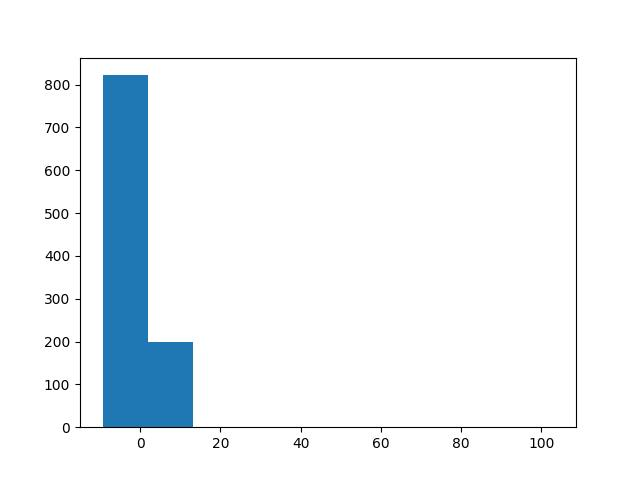
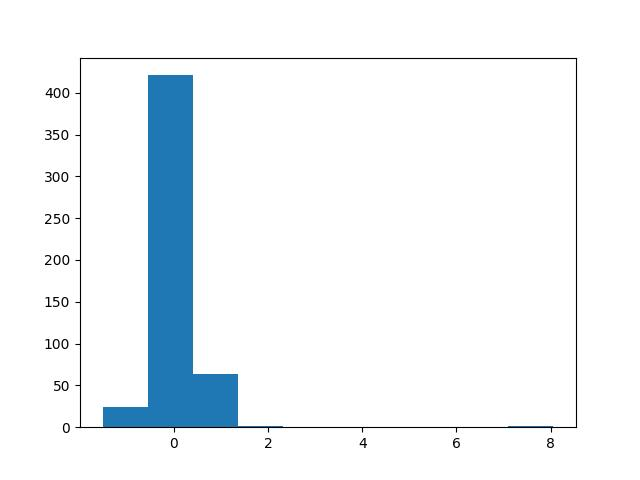
weighting! fantastic!

diff --git a/internvl2_patches.py b/internvl2_patches.py
@@ -21,6 +21,9 @@ from conversation import get_conv_template
 from modeling_intern_vit import InternVisionModel, has_flash_attn
 from modeling_phi3 import Phi3ForCausalLM
 
+from transformers import CLIPProcessor, CLIPModel
+
+
 logger = logging.get_logger(__name__)
 
 
@@ -59,7 +62,14 @@ class InternVLChatModel(PreTrainedModel):
         if vision_model is not None:
             self.vision_model = vision_model
         else:
-            self.vision_model = InternVisionModel(config.vision_config)
+            self.vision_model = CLIPModel.from_pretrained(
+                "openai/clip-vit-base-patch16",
+                # attn_implementation="flash_attention_2",
+                # device_map=device,
+                # torch_dtype=torch_dtype,
+            )
+            # self.processor = CLIPProcessor.from_pretrained("openai/clip-vit-base-patch32")
+
         if language_model is not None:
             self.language_model = language_model
         else:
@@ -70,7 +80,7 @@ class InternVLChatModel(PreTrainedModel):
             else:
                 raise NotImplementedError(f'{config.llm_config.architectures[0]} is not implemented.')
 
-        vit_hidden_size = config.vision_config.hidden_size
+        vit_hidden_size = 512# config.vision_config.hidden_size
         llm_hidden_size = config.llm_config.hidden_size
 
         self.mlp1 = nn.Sequential(
@@ -181,24 +191,11 @@ class InternVLChatModel(PreTrainedModel):
         return x
 
     def extract_feature(self, pixel_values):
-        # if self.select_layer == -1:
-        #     vit_embeds = self.vision_model(
-        #         pixel_values=pixel_values,
-        #         output_hidden_states=False,
-        #         return_dict=True).last_hidden_state
-        # else:
-        #     vit_embeds = self.vision_model(
-        #         pixel_values=pixel_values,
-        #         output_hidden_states=True,
-        #         return_dict=True).hidden_states[self.select_layer]
-        vit_embeds = self.vision_model(
-                pixel_values=pixel_values,
-                output_hidden_states=False,
-                return_dict=True).pooler_output
+        # inputs = self.processor(images=pixel_values, 
+        #                         return_tensors="pt").to(self.vision_model.device, self.vision_model.dtype)
+        vit_embeds = self.vision_model.get_image_features(pixel_values,
+                return_dict=True)
 
-        # h = w = int(vit_embeds.shape[1] ** 0.5)
-        # vit_embeds = vit_embeds.reshape(vit_embeds.shape[0], h, w, -1)
-        # vit_embeds = self.pixel_shuffle(vit_embeds, scale_factor=self.downsample_ratio)
         vit_embeds = vit_embeds.reshape(pixel_values.shape[0], -1, vit_embeds.shape[-1])
         return vit_embeds
 
@@ -255,12 +252,6 @@ class InternVLChatModel(PreTrainedModel):
              num_patches_list=None, IMG_START_TOKEN='<img>', IMG_END_TOKEN='</img>', IMG_CONTEXT_TOKEN='<IMG_CONTEXT>',
              verbose=False, visual_features=None):
 
-        # if history is None and pixel_values is not None and '<image>' not in question:
-        #     question = '<image>\n' + question
-
-        # if num_patches_list is None:
-        #     num_patches_list = [pixel_values.shape[0]] if pixel_values is not None else []
-        # assert pixel_values is None or len(pixel_values) == sum(num_patches_list)
 
         img_context_token_id = tokenizer.convert_tokens_to_ids(IMG_CONTEXT_TOKEN)
         self.img_context_token_id = img_context_token_id
@@ -268,22 +259,6 @@ class InternVLChatModel(PreTrainedModel):
         template = get_conv_template(self.template)
         # template.system_message = self.system_message
         eos_token_id = tokenizer.convert_tokens_to_ids(template.sep)
-
-        # history = [] if history is None else history
-        # for (old_question, old_answer) in history:
-        #     template.append_message(template.roles[0], old_question)
-        #     template.append_message(template.roles[1], old_answer)
-        # template.append_message(template.roles[0], question)
-        # template.append_message(template.roles[1], None)
-        # query = template.get_prompt()
-
-        # if verbose and pixel_values is not None:
-        #     image_bs = pixel_values.shape[0]
-        #     print(f'dynamic ViT batch size: {image_bs}')
-
-        # for num_patches in num_patches_list:
-        #     image_tokens = IMG_START_TOKEN + IMG_CONTEXT_TOKEN * self.num_image_token * num_patches + IMG_END_TOKEN
-        #     query = query.replace('<image>', image_tokens, 1)
 
         query = '''<|user|><img><IMG_CONTEXT></img><|end|><|assistant|>'''
 
@@ -299,15 +274,7 @@ class InternVLChatModel(PreTrainedModel):
             **generation_config
         )
         response = tokenizer.batch_decode(generation_output, skip_special_tokens=True)[0]
-        # response = response.split(template.sep)[0].strip()
-        # history.append((question, response))
-        # if return_history:
-        #     return response, history
-        # else:
-        #     query_to_print = query.replace(IMG_CONTEXT_TOKEN, '')
-        #     query_to_print = query_to_print.replace(f'{IMG_START_TOKEN}{IMG_END_TOKEN}', '<image>')
-        #     if verbose:
-        #         print(query_to_print, response)
+
         return response
 
     @torch.no_grad()

diff --git a/app.py b/app.py
@@ -5,7 +5,7 @@ import random
 import pandas as pd
 import gradio as gr
 import numpy as np
-from sklearn.linear_model import LinearRegression
+from sklearn.linear_model import LogisticRegression
 from sklearn.svm import SVC
 from sklearn import preprocessing
 import time
@@ -43,11 +43,12 @@ with torch.cuda.amp.autocast(True, torch.bfloat16):
 
 def get_text(embed):
     with torch.cuda.amp.autocast(True, torch.bfloat16):
-        generation_config = dict(max_new_tokens=32, do_sample=False, temperature=.5, top_p=.92)
+        generation_config = dict(max_new_tokens=32, do_sample=False, 
+                                                    temperature=.5, top_p=.92)
 
         # single-image single-round conversation (单图单轮对话)
         pixel_values = 0
-        question = '''''' # not really used # TODO
+        question = '''''' # not really used # TODO & pixel_values as well
         response = model.chat(tokenizer, pixel_values, question, generation_config, visual_features=embed.to(torch.bfloat16))
         print(response)
         return response
@@ -153,6 +154,13 @@ def next_image():
                 # indices = random.sample(pos_indices, mini) + random.sample(neg_indices, mini)
                 ys_t = [ys[i] for i in indices]
                 feature_embs = torch.stack([embs[e][0, 0].detach().cpu() for e in indices]).squeeze()
+
+                # balance pos/negatives?
+                for e in indices:
+                    w = len(pos_indices) / len(neg_indices)
+                    feature_embs[e] = feature_embs[e] * w if ys_t[e] > .5 else feature_embs[e] * (1-w)
+                    # if w < 1:
+                    #     feature_embs *= -1
                 
                 if len(pos_indices) > 8:
                    to_drop = pos_indices.pop(0)
@@ -172,15 +180,15 @@ def next_image():
                 
                 print(np.array(feature_embs).shape, np.array(ys_t).shape)
             
-            # sol = LinearRegression().fit(np.array(feature_embs), np.array(torch.tensor(ys_t).unsqueeze(1).float())).coef_
-            sol = torch.linalg.lstsq(torch.tensor(ys_t).unsqueeze(1).float(), torch.tensor(feature_embs).float(),).solution
+            # sol = SVC(kernel='linear', C=10, class_weight='balanced').fit(np.array(feature_embs), np.array(torch.tensor(ys_t).unsqueeze(1).float())).coef_
+            sol = torch.linalg.lstsq(torch.tensor(ys_t).unsqueeze(1).float() * 2 - 1, torch.tensor(feature_embs).float(),).solution
 
             # neg_sol = torch.linalg.lstsq((torch.tensor(ys_t).unsqueeze(1).float() - 1) * -1, torch.tensor(feature_embs).float()).solution
 
 
             # pos_sol = torch.stack([embs[i][0, 0] for i in range(len(ys_t)) if ys_t[i] > .5]).mean(0, keepdim=True)
             # neg_sol = torch.stack([embs[i][0, 0] for i in range(len(ys_t)) if ys_t[i] < .5]).mean(0, keepdim=True)
-            # sol = (sol - neg_sol)
+            # sol = 2 * (sol - neg_sol)
             
             # could have a base vector of a black image
             sol = torch.tensor(sol, dtype=torch.float16).to('cuda')
@@ -270,7 +278,7 @@ with gr.Blocks(css=css) as demo:
                  [b4],
                  [b1, b2, b3, b4, img, txt])
 
-demo.launch()  # Share your demo with just 1 extra parameter 🚀
+demo.launch(share=True)  # Share your demo with just 1 extra parameter 🚀
 
 
 

diff --git a/model.py b/model.py
@@ -27,10 +27,10 @@ img_context_token_id = tokenizer.convert_tokens_to_ids('<IMG_CONTEXT>')
 model.img_context_token_id = img_context_token_id
 
 model.mlp1 = model.mlp1.to(torch.float32)
-model.vision_model.encoder = model.vision_model.encoder.to(torch.float32)
-print(model.mlp1, model.vision_model.encoder)
+# model.vision_model.encoder = model.vision_model.encoder.to(torch.float32)
+print(model.mlp1,)
 
-params = list(model.mlp1.parameters()) + list(model.vision_model.encoder.parameters())
+params = list(model.mlp1.parameters())# + list(model.vision_model.encoder.parameters())
 
 print(f'Training: {params}')
 # we will drop all but last patch & train mlp1; mlp1 will be where we do vector arythmetic and probes.

diff --git a/config.py b/config.py
@@ -2,11 +2,11 @@ import torch
 
 lr = 1e-5
 
-path = './inter-est_pooled'
-save_path = '/home/ryn_mote/Misc/vlm_with_pooled_for_text_genrec/inter-est'
+path = '/home/ryn_mote/Misc/vlm_with_pooled_for_text_genrec/inter-est_CLIP'
+save_path = '/home/ryn_mote/Misc/vlm_with_pooled_for_text_genrec/inter-est_CLIP'
 
 epochs = 1
-batch_size = 8
+batch_size = 16
 
 device = 'cuda'
 dtype = torch.bfloat16
